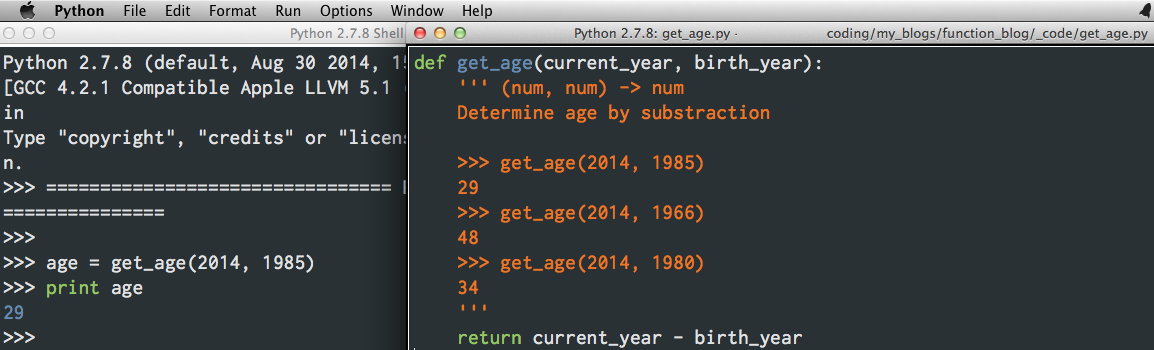
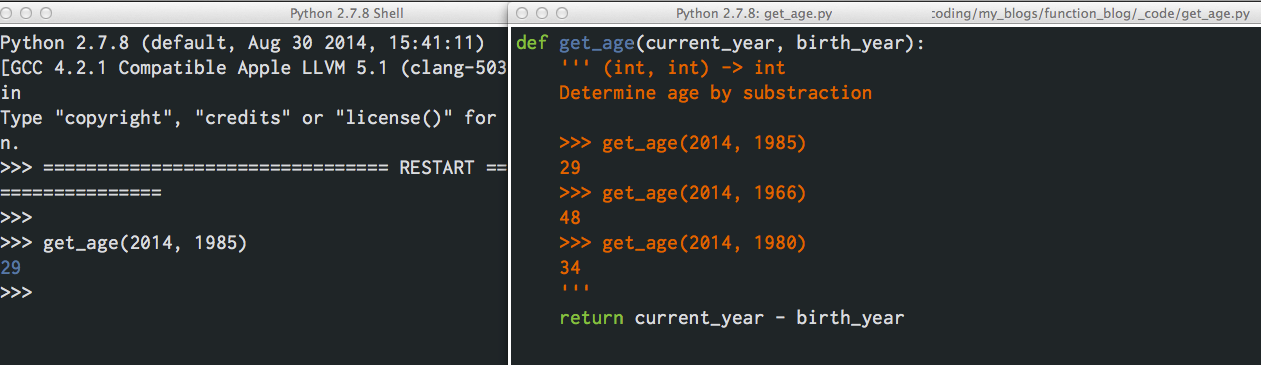
updated image

diff --git a/_code/get_age.py b/_code/get_age.py
@@ -1,5 +1,5 @@
 def get_age(current_year, birth_year):
-    ''' (num, num) -> num
+    ''' (int, int) -> int
     Determine age by substraction
 
     >>> get_age(2014, 1985)
@@ -10,3 +10,6 @@ def get_age(current_year, birth_year):
     34
     '''
     return current_year - birth_year
+
+
+

diff --git a/python_functions.md b/python_functions.md
@@ -2,7 +2,7 @@
 # CREATING A FUNCTION - Part 1
 For many of you python code was a series of code statements, with the highest level of organization being a code block. This script would be saved in a py file, becoming a python module.
 
-Python provides some flexibility on the approach to solving a challenge. One route is the function.
+Python provides some flexibility on the approach to solving a challenge. One route is the function. Functions can be combined and used to create powerful programs, even without the use of object oriented programming.
 
 ## Three Python Terms
 
@@ -15,12 +15,12 @@ The term module can be somewhat confusing, from PyDocs 'A module is a file conta
 **Note**: Modules can also contain more advanced code, including functions and and classes
 
 ### Function
-A function in python is the most basic object we can call in Python. Python has a number of built in functions, the one we are most familiar with would have to be `print`. Python allows us to create our own custom functions. [Tutorial Point](http://www.tutorialspoint.com/python/python_functions.htm) defines a function nicely as "a block of organized, reusable code that is used to perform a single, related action."
+A function in python is the most basic object we can call in Python. Python has a number of built in functions, the one we are most familiar with would have to be `str(object='')` used in printing. Python allows us to create our own custom functions. [Tutorial Point](http://www.tutorialspoint.com/python/python_functions.htm) defines a function nicely as "a block of organized, reusable code that is used to perform a single, related action."
 
 ## Some Key Reasons to Use a Function
 1. **Isolate and Reduce Complexity**, by breaking a problem into smaller manageable parts.
 
-2. **Provide Abstraction to Code**, while this concept may sound complex it is not, it essentially means that we separate the mechanics of what our code is doing from the actual use of the coded function. (A simple example of not abstracting code. In many of the assignments the values were hard coded into the code written and stored in the python file. With abstraction this would not happen. Any values would be passed in, only when the function is called or invoked. More on that to come.)
+2. **Provide Abstraction to Code**, while this concept may sound complex, it is not, it essentially means that we separate the mechanics of what our code is doing from the actual use of the coded function. (A simple example of not abstracting code; in many of the assignments the values were hard coded into the code and stored in the python file. With abstraction this would not happen. Any values would be passed in, only when the function is called or invoked. More on that to come.)
 
 3. **Avoid Duplicate Code**, separating the code logic from implementation allows reuse of a function as necessary. This is simple concept and a primary theme in coding style. And this goes directly to the Zen of Python, "Readability counts."
 
@@ -28,7 +28,7 @@ A function in python is the most basic object we can call in Python. Python has 
 
 5. **Speed up Code**, putting code in a function is far more efficient memory wise.
 
-**Note:** Steve McConnell wrote this great advice in <u>Code Complete</u>."One of the strongest mental blocks to creating effective functions is a reluctance to create a simple function for a simple purpose. Constructing a whole function to contain two or three lines of code might seem like overkill, but experience shows how helpful a good small function can be. Small function offer several advantages. **One is that they improve readability**." That may not seem important now, but when you are writing larger programs it will certainly become clear.
+**Note:** Steve McConnell wrote this great advice in <u>Code Complete</u>. "One of the strongest mental blocks to creating effective functions is a reluctance to create a simple function for a simple purpose. Constructing a whole function to contain two or three lines of code might seem like overkill, but experience shows how helpful a good small function can be. Small function offer several advantages. **One is that they improve readability**." That may not seem important now, but when you are writing larger programs it will certainly become clear.
 
 ## Overall structure of a python function
 
@@ -39,7 +39,7 @@ A function in python is the most basic object we can call in Python. Python has 
 3. parameters, inside of parenthesis, sometimes referred to as arguments:
 	- parameters, may be none/zero, or 1, 2, 3, or more. If more than one, they must be separated by a comma.
     - a parameter(s) is provided in the function call
-4. docstring - optional but should be included, see [PEP 257 -- Docstring Conventions](http://legacy.python.org/dev/peps/pep-0257/) for more detail. We are going to discuss this later. 
+4. DocString - optional but should be included, see [PEP 257 -- DocString Conventions](http://legacy.python.org/dev/peps/pep-0257/) for more detail. We are going to discuss in detail in Part 2. 
 5. body:
 	- heart of the function, like the engine, this is the mechanics and all the working parts.
 	- made up of one or more statements
@@ -57,7 +57,7 @@ A function in python is the most basic object we can call in Python. Python has 
 
 2. "When return passes control out of a try statement with a finally clause, that finally clause is executed before really leaving the function."
 
-### Invoking(Calling) a function, the other part of abstraction
+### Invoking(Calling) a function, the other half of abstraction
 **Note**: Although a function can have zero parameters, the examples I am using will all have parameters. 
 ![def_get_age](https://raw.githubusercontent.com/diek/function_blog/master/_images/get_age.png)
 
@@ -65,8 +65,21 @@ In this example using the function get_age, we called the function in the Python
 
 Within the body of the function expressions are evaluated until none remain. Again if the keyword **return** is reached, the execution of the function is terminated and the value returned. In cases where the key **return** is not used, Python returns `None` to the function call.
 
-In this example, the key **return** was not used. The code calls print on the bond variable 'name' and that is the only evaluated expression. In the Python Shell we can see that `None` is returned.
-![def_no_return](https://raw.githubusercontent.com/diek/function_blog/master/_images/no_return.png)
+In this example, the keyword **return** was not used. The code calls `print` on the bound variable 'Derrick' and that is the only evaluated expression. In the Python Shell we can see that `None` is returned.
+![def_no_return](https://raw.githubusercontent.com/diek/function_blog/master/_images/nil_return.png)
 
+To summarize the function call, with the help Eric Grimson, the man who turned me into detective when necessary.
 
-*Unless otherwise specified, this is based upon my notes, and lectures from Learn to Program: The Fundamentals by Jennifer Campbell, Paul Gries. and MITx: 6.00.1x Introduction to Computer Science and Programming Using Python with Eric Grimson, Supplemented with info from PyDocs.*
+## Execution of Function Call	
+1. 'Expressions	for each	parameter are evaluated, bound to formal parameter names of function'	
+2. Control moves to first expression in function body
+
+3. Each expression is executed until the `return` keyword reached (returning value of next expression) or no expressions	are left, resulting in the function returning `None`.
+
+4. 'Invocation is bound to the returned value'. For example, if we had a function to add x and y, and we invoked sum = add_num(3, 4), then 7 would be bound.
+ 
+5. 'Control transfers to next piece of code', if applicable.	
+
+## Next Up - Function Recipe.
+
+*Unless otherwise specified, this is based upon my notes, and lectures from Learn to Program: The Fundamentals by Jennifer Campbell, Paul Gries. and MITx: 6.00.1x Introduction to Computer Science and Programming Using Python with Eric Grimson, and supplemented with info from PyDocs.*
